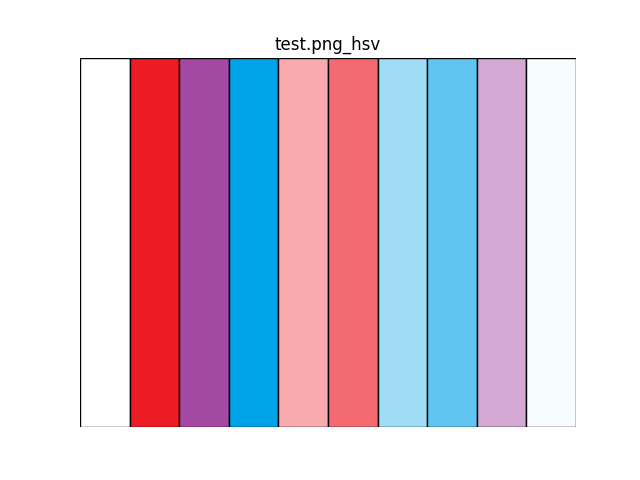
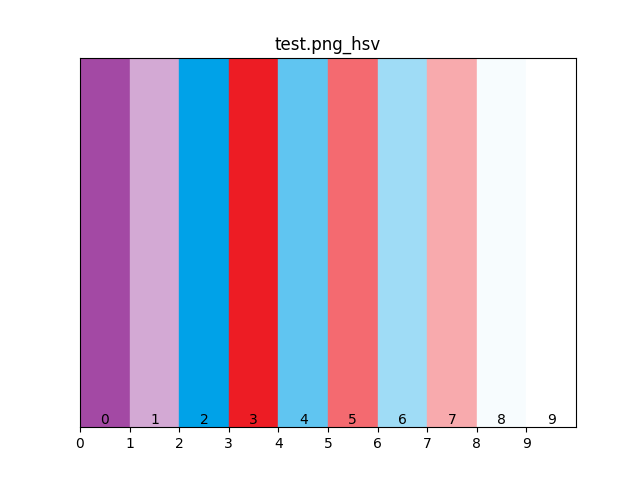
fix bugs

diff --git a/ImgTool/ColorFeaturesVangogh.py b/ImgTool/ColorFeaturesVangogh.py
@@ -7,23 +7,30 @@ import matplotlib.patches as patches
 import cv2
 import numpy as np
 from sklearn.cluster import KMeans
+import colorsys
 
 
 def plot_color_blocks(hex_colors, title, algorithm):
     #plt.figure()
-    fig, ax = plt.subplots()
+    fig = plt.figure()
+    ax = fig.add_subplot(1, 1, 1)
     
     num_colors = len(hex_colors)
     width = 1 / num_colors
+    height = 1 / num_colors
     
     for i, color in enumerate(hex_colors):
-        rect = patches.Rectangle((i * width, 0), width, 1, linewidth=1, edgecolor='k', facecolor=color)
+        rect = patches.Rectangle((i, 0), 1, 1, color=color)
+        #rect = patches.Rectangle((i * width, 0), width, 1, linewidth=1, edgecolor='k', facecolor=color)
         ax.add_patch(rect)
+        ax.text(i + 0.5, 0, str(i), ha='center', va='bottom', fontsize=10)
         
     plt.title(f'{title}_{algorithm}')
-    plt.xlim(0, 1)
+    plt.xlim(0, num_colors)
     plt.ylim(0, 1)
-    plt.axis('off')
+    plt.xticks(range(num_colors))
+    plt.yticks([])
+    #plt.axis('off')
     plt.savefig(f'./output/{title}_{algorithm}.png')
     plt.show()
     plt.close()
@@ -68,11 +75,30 @@ def extract_hex_colors_labcolor(image_path, num_colors):
         colors[i] = pixels[closest_index]
 
     hex_colors = []
-    for color in colors:
-        hex_color = '#{:02x}{:02x}{:02x}'.format(int(color[0]), int(color[1]), int(color[2]))
-        hex_colors.append(hex_color)
+    # for color in colors:
+    #     hex_color = '#{:02x}{:02x}{:02x}'.format(int(color[0]), int(color[1]), int(color[2]))
+    #     hex_colors.append(hex_color)
 
+    hex_colors = sort_colors_by_brightness(colors)
     return hex_colors
+
+
+def sort_colors_by_brightness(colors):
+    hsv_colors = []
+    for color in colors:
+        r, g, b = color[0] / 255.0, color[1] / 255.0, color[2] / 255.0
+        hsv_color = colorsys.rgb_to_hsv(r, g, b)
+        hsv_colors.append((hsv_color, color))
+
+    hsv_colors.sort(key=lambda x: x[0][2])
+    sorted_colors = [x[1] for x in hsv_colors]
+
+    sorted_hex_colors = []
+    for color in sorted_colors:
+        hex_color = '#{:02x}{:02x}{:02x}'.format(int(color[0]), int(color[1]), int(color[2]))
+        sorted_hex_colors.append(hex_color)
+
+    return sorted_hex_colors
 
 
 def extract_hex_colors_hsv(image_path, num_colors):
@@ -95,11 +121,23 @@ def extract_hex_colors_hsv(image_path, num_colors):
         colors[i] = pixels[closest_index]
 
     hex_colors = []
-    for color in colors:
-        hex_color = '#{:02x}{:02x}{:02x}'.format(int(color[0]), int(color[1]), int(color[2]))
-        hex_colors.append(hex_color)
+    # for color in colors:
+    #     hex_color = '#{:02x}{:02x}{:02x}'.format(int(color[0]), int(color[1]), int(color[2]))
+    #     hex_colors.append(hex_color)
+    
+    hex_colors = sort_colors_by_brightness(colors)
 
     return hex_colors
+
+
+def hex_to_rgb(hex_colors):
+    rgb_colors = []
+    for hex_color in hex_colors:
+        r = int(hex_color[1:3], 16)
+        g = int(hex_color[3:5], 16)
+        b = int(hex_color[5:7], 16)
+        rgb_colors.append((r, g, b))
+    return rgb_colors
 
 
 if __name__ == '__main__':
@@ -116,7 +154,14 @@ if __name__ == '__main__':
     image_paths = ['test.png', 'VanGogh.jpg', 'VanGogh.png', 'vangogh1.png', 'vangogh2.png']
     num_colors = 10
 
+    hex_colors = hex_to_rgb(hex_colors)
+    hex_colors = sort_colors_by_brightness(hex_colors)
+    print(f'chatGPT:{hex_colors}')
+    plot_color_blocks(hex_colors, 'chatGPT', 'hsv')
+
     for image_path in image_paths:
         hex_colors = extract_hex_colors_hsv(f'./input/{image_path}', num_colors)
-        print(hex_colors)
+        print(f'{image_path}:{hex_colors}')
         plot_color_blocks(hex_colors, os.path.basename(image_path), 'hsv')
+
+#%APPDATA%\Microsoft\Templates\Document Themes\Theme Colors
